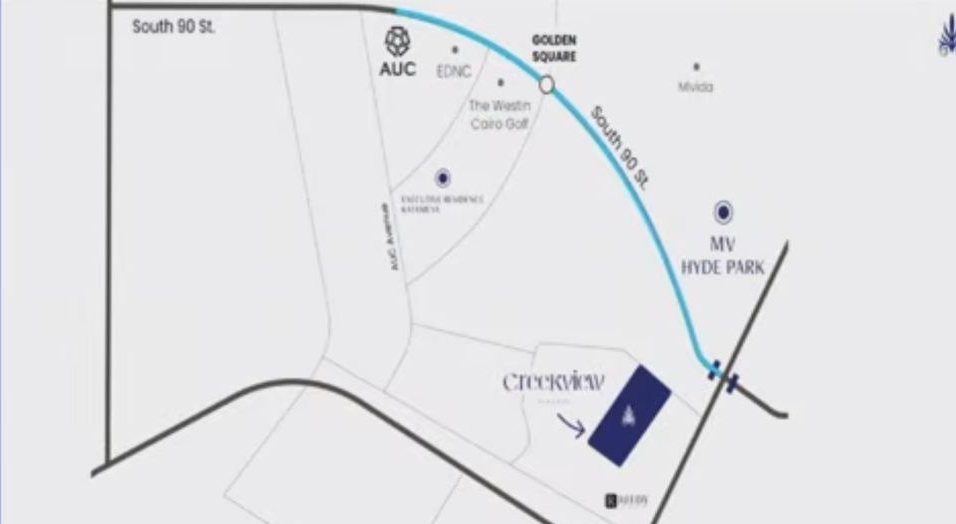
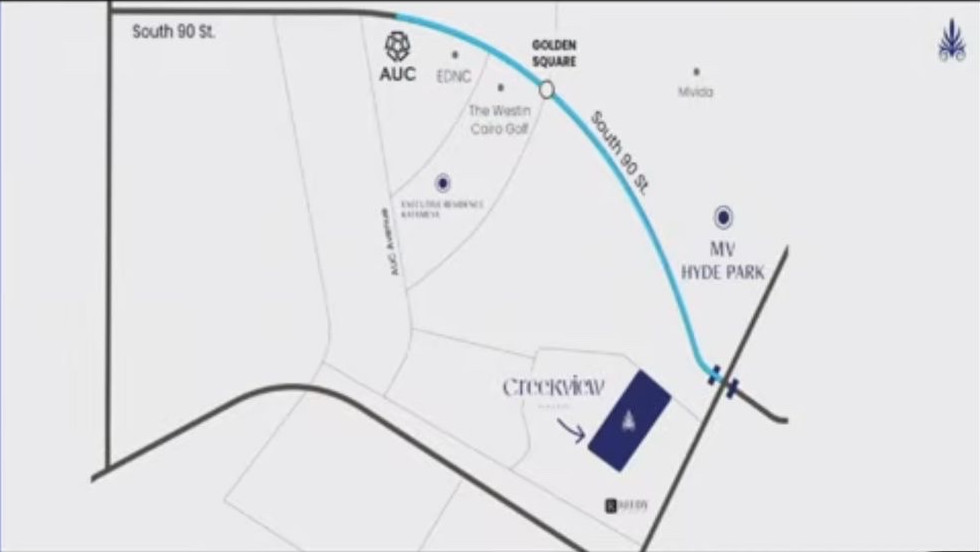
Use full-resolution project renders
Replace over-zoomed crops with the full photo regions from the deck so
images are not enlarged beyond their source resolution.

https://claude.ai/code/session_017JQ1cZpRC3SEiRCgrdwDPh

Changed region(s): [[0.0, 0.0, 1.0, 1.0], [0.3944, 0.3053, 0.5157, 0.5191], [0.6977, 0.1221, 0.7584, 0.1832]]

diff --git a/index.html b/index.html
@@ -189,7 +189,7 @@
   <div class="grid md:grid-cols-2 gap-12 items-center">
     <div class="md:pl-4">
       <div class="aspect-[4/5] w-full overflow-hidden bg-mv-sand">
-        <img src="images/creek.jpg" alt="Creek View community along the water at golden hour"
+        <img src="images/islands.jpg" alt="Creek View community along the water at golden hour"
           class="w-full h-full object-cover" loading="lazy" />
       </div>
     </div>
@@ -241,7 +241,7 @@
       </div>
       <div class="md:order-2 order-1 md:pr-4">
         <div class="aspect-[4/5] w-full overflow-hidden bg-mv-cream">
-          <img src="images/lifestyle.jpg" alt="iVilla homes at Creek View at dusk"
+          <img src="images/townhouses.jpg" alt="iVilla homes at Creek View"
             class="w-full h-full object-cover" loading="lazy" />
         </div>
       </div>
@@ -423,7 +423,7 @@
 <section id="register" class="max-w-6xl mx-auto px-6 py-24 md:py-32">
   <div class="grid md:grid-cols-2 gap-12 items-stretch">
     <div class="overflow-hidden bg-mv-sand min-h-[420px]">
-      <img src="images/register.jpg" alt="A Creek View home at dusk"
+      <img src="images/ivilla.jpg" alt="A Creek View home at dusk"
         class="w-full h-full object-cover" loading="lazy" />
     </div>
 
@@ -600,12 +600,12 @@
 
   // --- Gallery: 6 landscape 16:9 photographs ---
   var galleryScenes = [
-    { caption: 'The active creek experience', src: 'images/gallery-1.jpg' },
-    { caption: 'I-villa homes at dusk', src: 'images/gallery-2.jpg' },
-    { caption: 'The community master plan', src: 'images/gallery-3.jpg' },
-    { caption: 'Creekside walks at golden hour', src: 'images/gallery-4.jpg' },
-    { caption: 'Lakeside living', src: 'images/gallery-5.jpg' },
-    { caption: 'Tree-lined waterside promenades', src: 'images/gallery-6.jpg' }
+    { caption: 'The active creek experience', src: 'images/canal.jpg' },
+    { caption: 'I-villa homes at dusk', src: 'images/ivilla.jpg' },
+    { caption: 'The community master plan', src: 'images/masterplan.jpg' },
+    { caption: 'Creek View at golden hour', src: 'images/cover.jpg' },
+    { caption: 'Lakeside living', src: 'images/islands.jpg' },
+    { caption: 'Garden I-villa homes', src: 'images/townhouses.jpg' }
   ];
 
   function galleryCard(scene) {
